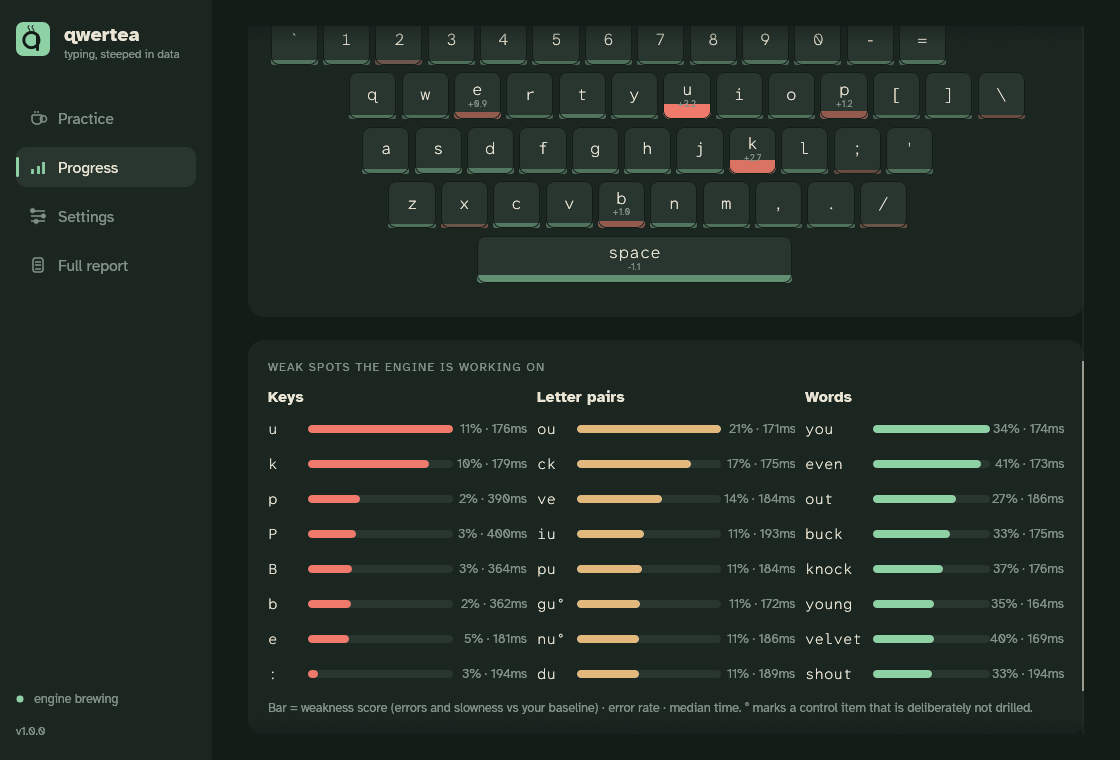
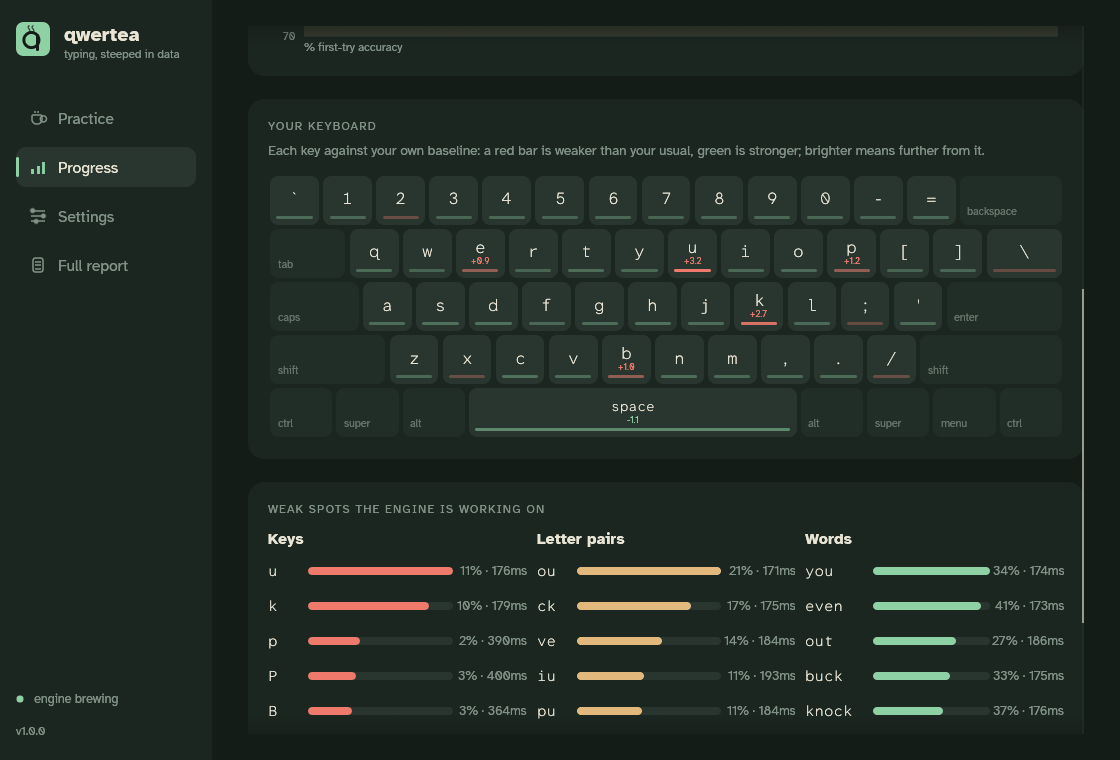
Progress: draw the heatmap as a full, rectangular keyboard
Every row is 15 key units (ANSI widths) with the modifier keys shown
dimmed, so the board is square and symmetric. Weakness is a thin bar
under each key (colour = direction, brightness = distance from your
baseline) and the score sits above it instead of overlapping.

Claude-Session: https://claude.ai/code/session_01HZnuuzUYtpV1ACEvQZYsVM

diff --git a/client/src/ui/widgets.rs b/client/src/ui/widgets.rs
@@ -401,79 +401,212 @@ pub fn bar_list(ui: &mut Ui, p: &Palette, rows: &[(String, f32, String)], color:
     }
 }
 
-/// Keycap heatmap: each key carries a coloured base strip, warm = weaker
-/// than your baseline, cool = stronger; the number is the weakness score.
+/// One drawn keycap, in key units (a letter key is 1 x 1).
+#[derive(Debug, Clone, PartialEq)]
+pub struct KeyCap {
+    pub label: String,
+    /// The character this key types, for keys that are scored.
+    pub base: Option<String>,
+    pub row: usize,
+    pub x: f32,
+    pub w: f32,
+}
+
+/// Total width of every keyboard row, in key units (standard ANSI).
+pub const BOARD_UNITS: f32 = 15.0;
+
+/// A full keyboard: the layout's typing keys in row order, framed by the
+/// usual modifier keys so every row is exactly `BOARD_UNITS` wide. If a row's
+/// keys do not fill it, the last typing key takes up the slack (e.g. the
+/// 1.5-wide backslash on ANSI keyboards).
+pub fn keyboard_caps(layout: &Layout) -> Vec<KeyCap> {
+    type Mods = &'static [(&'static str, f32)];
+    const MODS: [(Mods, Mods); 5] = [
+        (&[], &[("backspace", 2.0)]),
+        (&[("tab", 1.5)], &[]),
+        (&[("caps", 1.75)], &[("enter", 2.25)]),
+        (&[("shift", 2.25)], &[("shift", 2.75)]),
+        (
+            &[("ctrl", 1.25), ("super", 1.25), ("alt", 1.25)],
+            &[
+                ("alt", 1.25),
+                ("super", 1.25),
+                ("menu", 1.25),
+                ("ctrl", 1.25),
+            ],
+        ),
+    ];
+    let mut caps = Vec::new();
+    for (row, (pre, post)) in MODS.iter().enumerate() {
+        let mut keys: Vec<&crate::layout::Key> = layout
+            .visible_keys()
+            .filter(|k| k.row == row as i32)
+            .collect();
+        keys.sort_by(|a, b| a.x.total_cmp(&b.x));
+        let fixed: f32 = pre.iter().chain(post.iter()).map(|m| m.1).sum();
+        let n = keys.len() as f32;
+        let mut widths = vec![1.0f32; keys.len()];
+        let slack = BOARD_UNITS - fixed - n;
+        if let Some(last) = widths.last_mut() {
+            if slack > 0.0 {
+                *last += slack;
+            }
+        }
+        // If a layout has more keys than fit, shrink them evenly.
+        let total: f32 = widths.iter().sum();
+        let scale = if total > BOARD_UNITS - fixed && total > 0.0 {
+            (BOARD_UNITS - fixed) / total
+        } else {
+            1.0
+        };
+        let mut x = 0.0;
+        for (label, w) in pre.iter() {
+            caps.push(KeyCap {
+                label: (*label).into(),
+                base: None,
+                row,
+                x,
+                w: *w,
+            });
+            x += w;
+        }
+        for (k, w) in keys.iter().zip(widths) {
+            let w = w * scale;
+            let label = if k.base == " " {
+                "space".to_string()
+            } else {
+                k.base.clone()
+            };
+            caps.push(KeyCap {
+                label,
+                base: Some(k.base.clone()),
+                row,
+                x,
+                w,
+            });
+            x += w;
+        }
+        for (label, w) in post.iter() {
+            caps.push(KeyCap {
+                label: (*label).into(),
+                base: None,
+                row,
+                x,
+                w: *w,
+            });
+            x += w;
+        }
+    }
+    caps
+}
+
+/// Keycap heatmap on a full keyboard. Scored keys carry a thin base strip:
+/// warm = weaker than your own baseline, cool = stronger, more saturated =
+/// further from the baseline; the number is the weakness score. Modifier
+/// keys are drawn dimmed for orientation only.
 pub fn keyboard(ui: &mut Ui, p: &Palette, layout: &Layout, weakness: &HashMap<String, f64>) {
-    let unit = (ui.available_width() / 15.2).clamp(24.0, 54.0);
-    let size = vec2(unit * 15.2, unit * 5.4);
-    let (rect, _) = ui.allocate_exact_size(size, Sense::hover());
-    let pt = ui.painter_at(rect);
+    let avail = ui.available_width();
+    let unit = (avail / BOARD_UNITS).clamp(22.0, 56.0);
+    let gap = (unit * 0.08).max(2.0);
+    let board = vec2(unit * BOARD_UNITS, unit * 5.0);
+    let (outer, _) = ui.allocate_exact_size(vec2(avail, board.y), Sense::hover());
+    let rect = Rect::from_min_size(pos2(outer.center().x - board.x / 2.0, outer.top()), board);
+    let pt = ui.painter_at(outer);
     let lim = weakness
         .values()
         .fold(1.0f64, |m, v| m.max(v.abs()))
         .min(4.0);
-    for k in layout.visible_keys() {
-        let w = if k.base == " " { 6.0 } else { 0.9 };
-        let cx = rect.left() + k.x * unit;
-        let cy = rect.top() + (k.row as f32 + 0.5) * unit * 1.04;
-        let r = Rect::from_center_size(pos2(cx, cy), vec2(w * unit, 0.9 * unit));
+    let radius = CornerRadius::same((unit * 0.16) as u8);
+    for cap in keyboard_caps(layout) {
+        let r = Rect::from_min_size(
+            rect.min + vec2(cap.x * unit + gap / 2.0, cap.row as f32 * unit + gap / 2.0),
+            vec2(cap.w * unit - gap, unit - gap),
+        );
+        let Some(base) = &cap.base else {
+            pt.rect_filled(r, radius, p.panel_hi.gamma_multiply(0.45));
+            pt.text(
+                pos2(r.left() + unit * 0.14, r.bottom() - unit * 0.14),
+                Align2::LEFT_BOTTOM,
+                &cap.label,
+                FontId::proportional(unit * 0.2),
+                p.sub.gamma_multiply(0.7),
+            );
+            continue;
+        };
         let v = weakness
-            .get(&k.base)
+            .get(base)
             .copied()
-            .or_else(|| weakness.get(&k.base.to_uppercase()).copied());
-        pt.rect_filled(r, CornerRadius::same(8), p.panel_hi);
+            .or_else(|| weakness.get(&base.to_uppercase()).copied());
+        pt.rect_filled(r, radius, p.panel_hi);
         if let Some(v) = v {
             let t = (v / lim).clamp(-1.0, 1.0) as f32;
             let color = if t >= 0.0 { p.error } else { p.good };
-            let strip_h = 4.0 + 0.22 * unit * t.abs();
-            let strip = Rect::from_min_max(pos2(r.left(), r.bottom() - strip_h), r.max);
+            let strip = Rect::from_min_max(
+                pos2(r.left() + unit * 0.12, r.bottom() - unit * 0.12 - 3.0),
+                pos2(r.right() - unit * 0.12, r.bottom() - unit * 0.12),
+            );
             pt.rect_filled(
                 strip,
-                CornerRadius {
-                    nw: 0,
-                    ne: 0,
-                    sw: 8,
-                    se: 8,
-                },
-                color.gamma_multiply(0.35 + 0.65 * t.abs()),
+                CornerRadius::same(2),
+                color.gamma_multiply(0.3 + 0.7 * t.abs()),
             );
         }
-        pt.rect_stroke(
-            r,
-            CornerRadius::same(8),
-            Stroke::new(1.0, p.bg),
-            StrokeKind::Inside,
-        );
-        let label = if k.base == " " {
-            "space"
-        } else {
-            k.base.as_str()
-        };
         let shows_value = v.is_some_and(|v| v.abs() >= 0.5);
         pt.text(
             r.center()
                 - vec2(
                     0.0,
                     if shows_value {
-                        unit * 0.13
+                        unit * 0.12
                     } else {
                         unit * 0.04
                     },
                 ),
             Align2::CENTER_CENTER,
-            label,
-            FontId::monospace(unit * 0.32),
+            &cap.label,
+            FontId::monospace(unit * if cap.label.len() > 1 { 0.26 } else { 0.32 }),
             p.text,
         );
         if let Some(v) = v.filter(|_| shows_value) {
             pt.text(
-                r.center() + vec2(0.0, unit * 0.15),
+                r.center() + vec2(0.0, unit * 0.14),
                 Align2::CENTER_CENTER,
                 format!("{v:+.1}"),
-                FontId::proportional(unit * 0.18),
-                p.sub,
+                FontId::proportional(unit * 0.17),
+                if v > 0.0 { p.error } else { p.good },
             );
         }
+    }
+}
+
+#[cfg(test)]
+mod keyboard_tests {
+    use super::*;
+
+    #[test]
+    fn every_row_is_full_width_and_gapless() {
+        let caps = keyboard_caps(&Layout::builtin());
+        for row in 0..5 {
+            let mut keys: Vec<&KeyCap> = caps.iter().filter(|c| c.row == row).collect();
+            keys.sort_by(|a, b| a.x.total_cmp(&b.x));
+            let mut x = 0.0;
+            for k in &keys {
+                assert!((k.x - x).abs() < 1e-4, "row {row}: gap before {}", k.label);
+                x += k.w;
+            }
+            assert!((x - BOARD_UNITS).abs() < 1e-4, "row {row} is {x} wide");
+        }
+    }
+
+    #[test]
+    fn ansi_widths() {
+        let caps = keyboard_caps(&Layout::builtin());
+        let w = |label: &str| caps.iter().find(|c| c.label == label).map(|c| c.w).unwrap();
+        assert_eq!(w("\\"), 1.5);
+        assert_eq!(w("space"), 6.25);
+        assert_eq!(w("enter"), 2.25);
+        assert_eq!(w("q"), 1.0);
+        assert_eq!(caps.iter().filter(|c| c.base.is_some()).count(), 48);
     }
 }
 

diff --git a/client/src/ui/stats_view.rs b/client/src/ui/stats_view.rs
@@ -95,7 +95,7 @@ pub fn show(app: &mut App, ui: &mut Ui) {
                 ui.label(eyebrow(&p, "Your keyboard"));
                 ui.label(muted(
                     &p,
-                    "Each key against your own baseline: a red base means weaker than usual, green means stronger.",
+                    "Each key against your own baseline: a red bar is weaker than your usual, green is stronger; brighter means further from it.",
                 )
                 .size(13.5));
                 ui.add_space(6.0);
